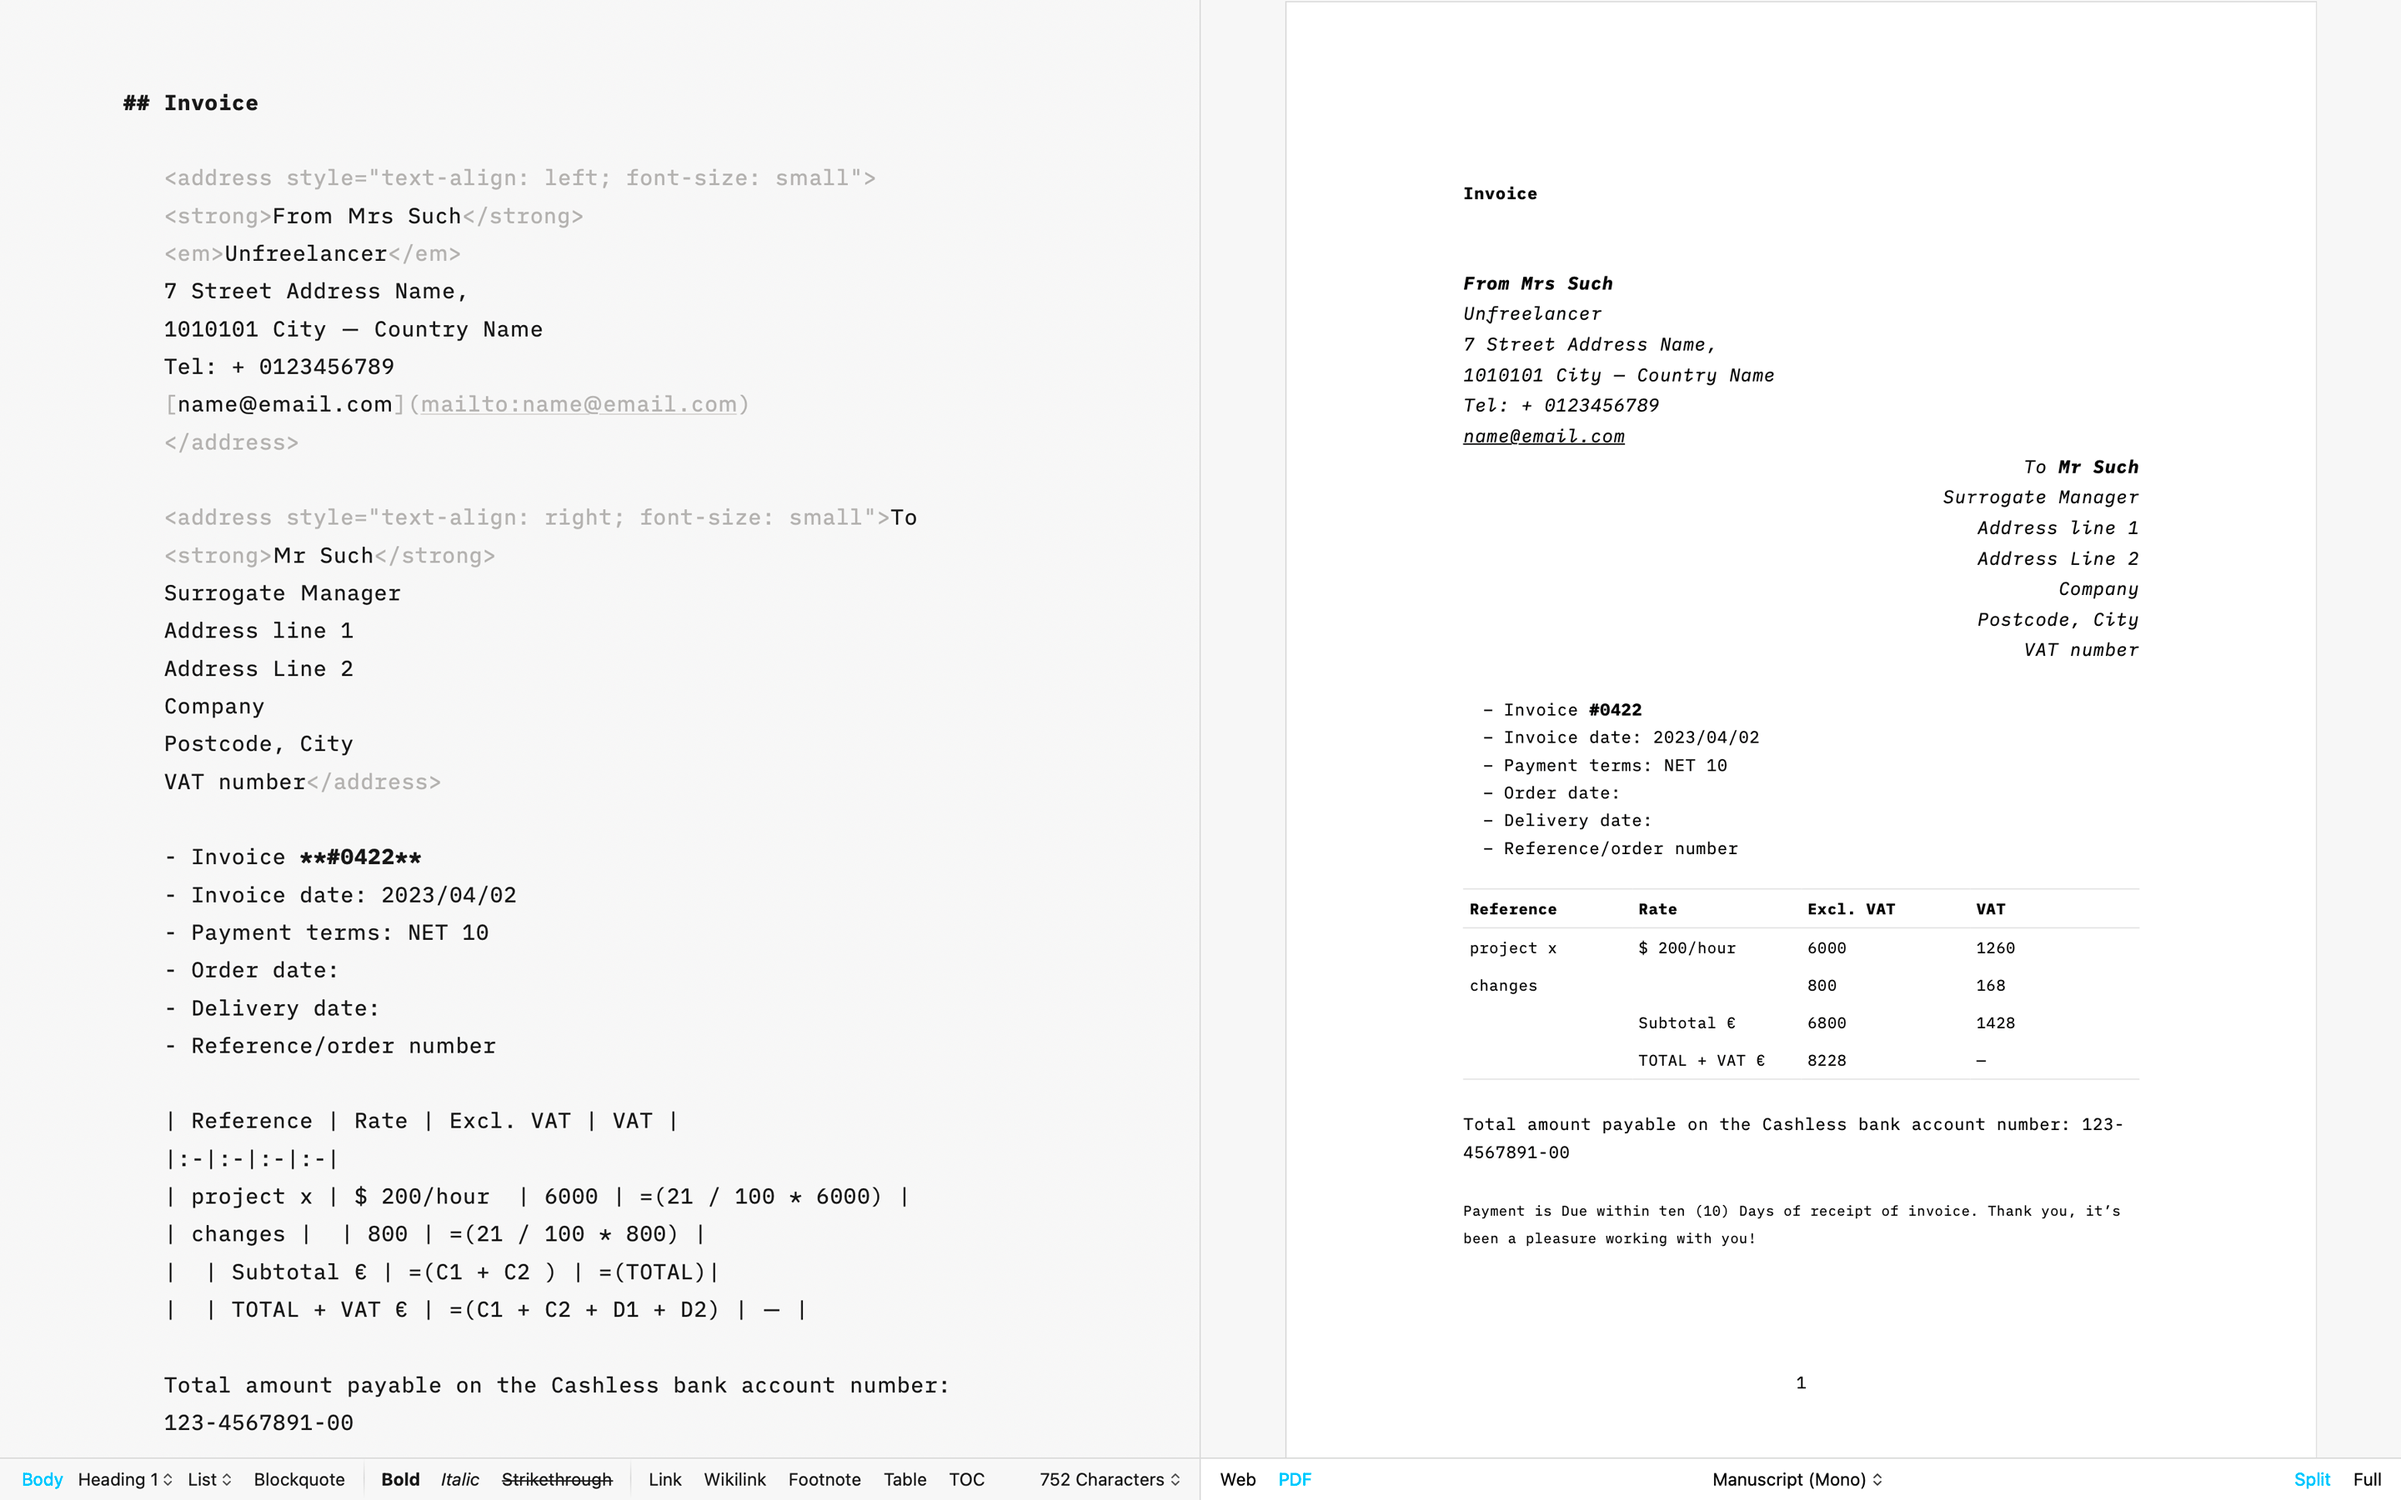
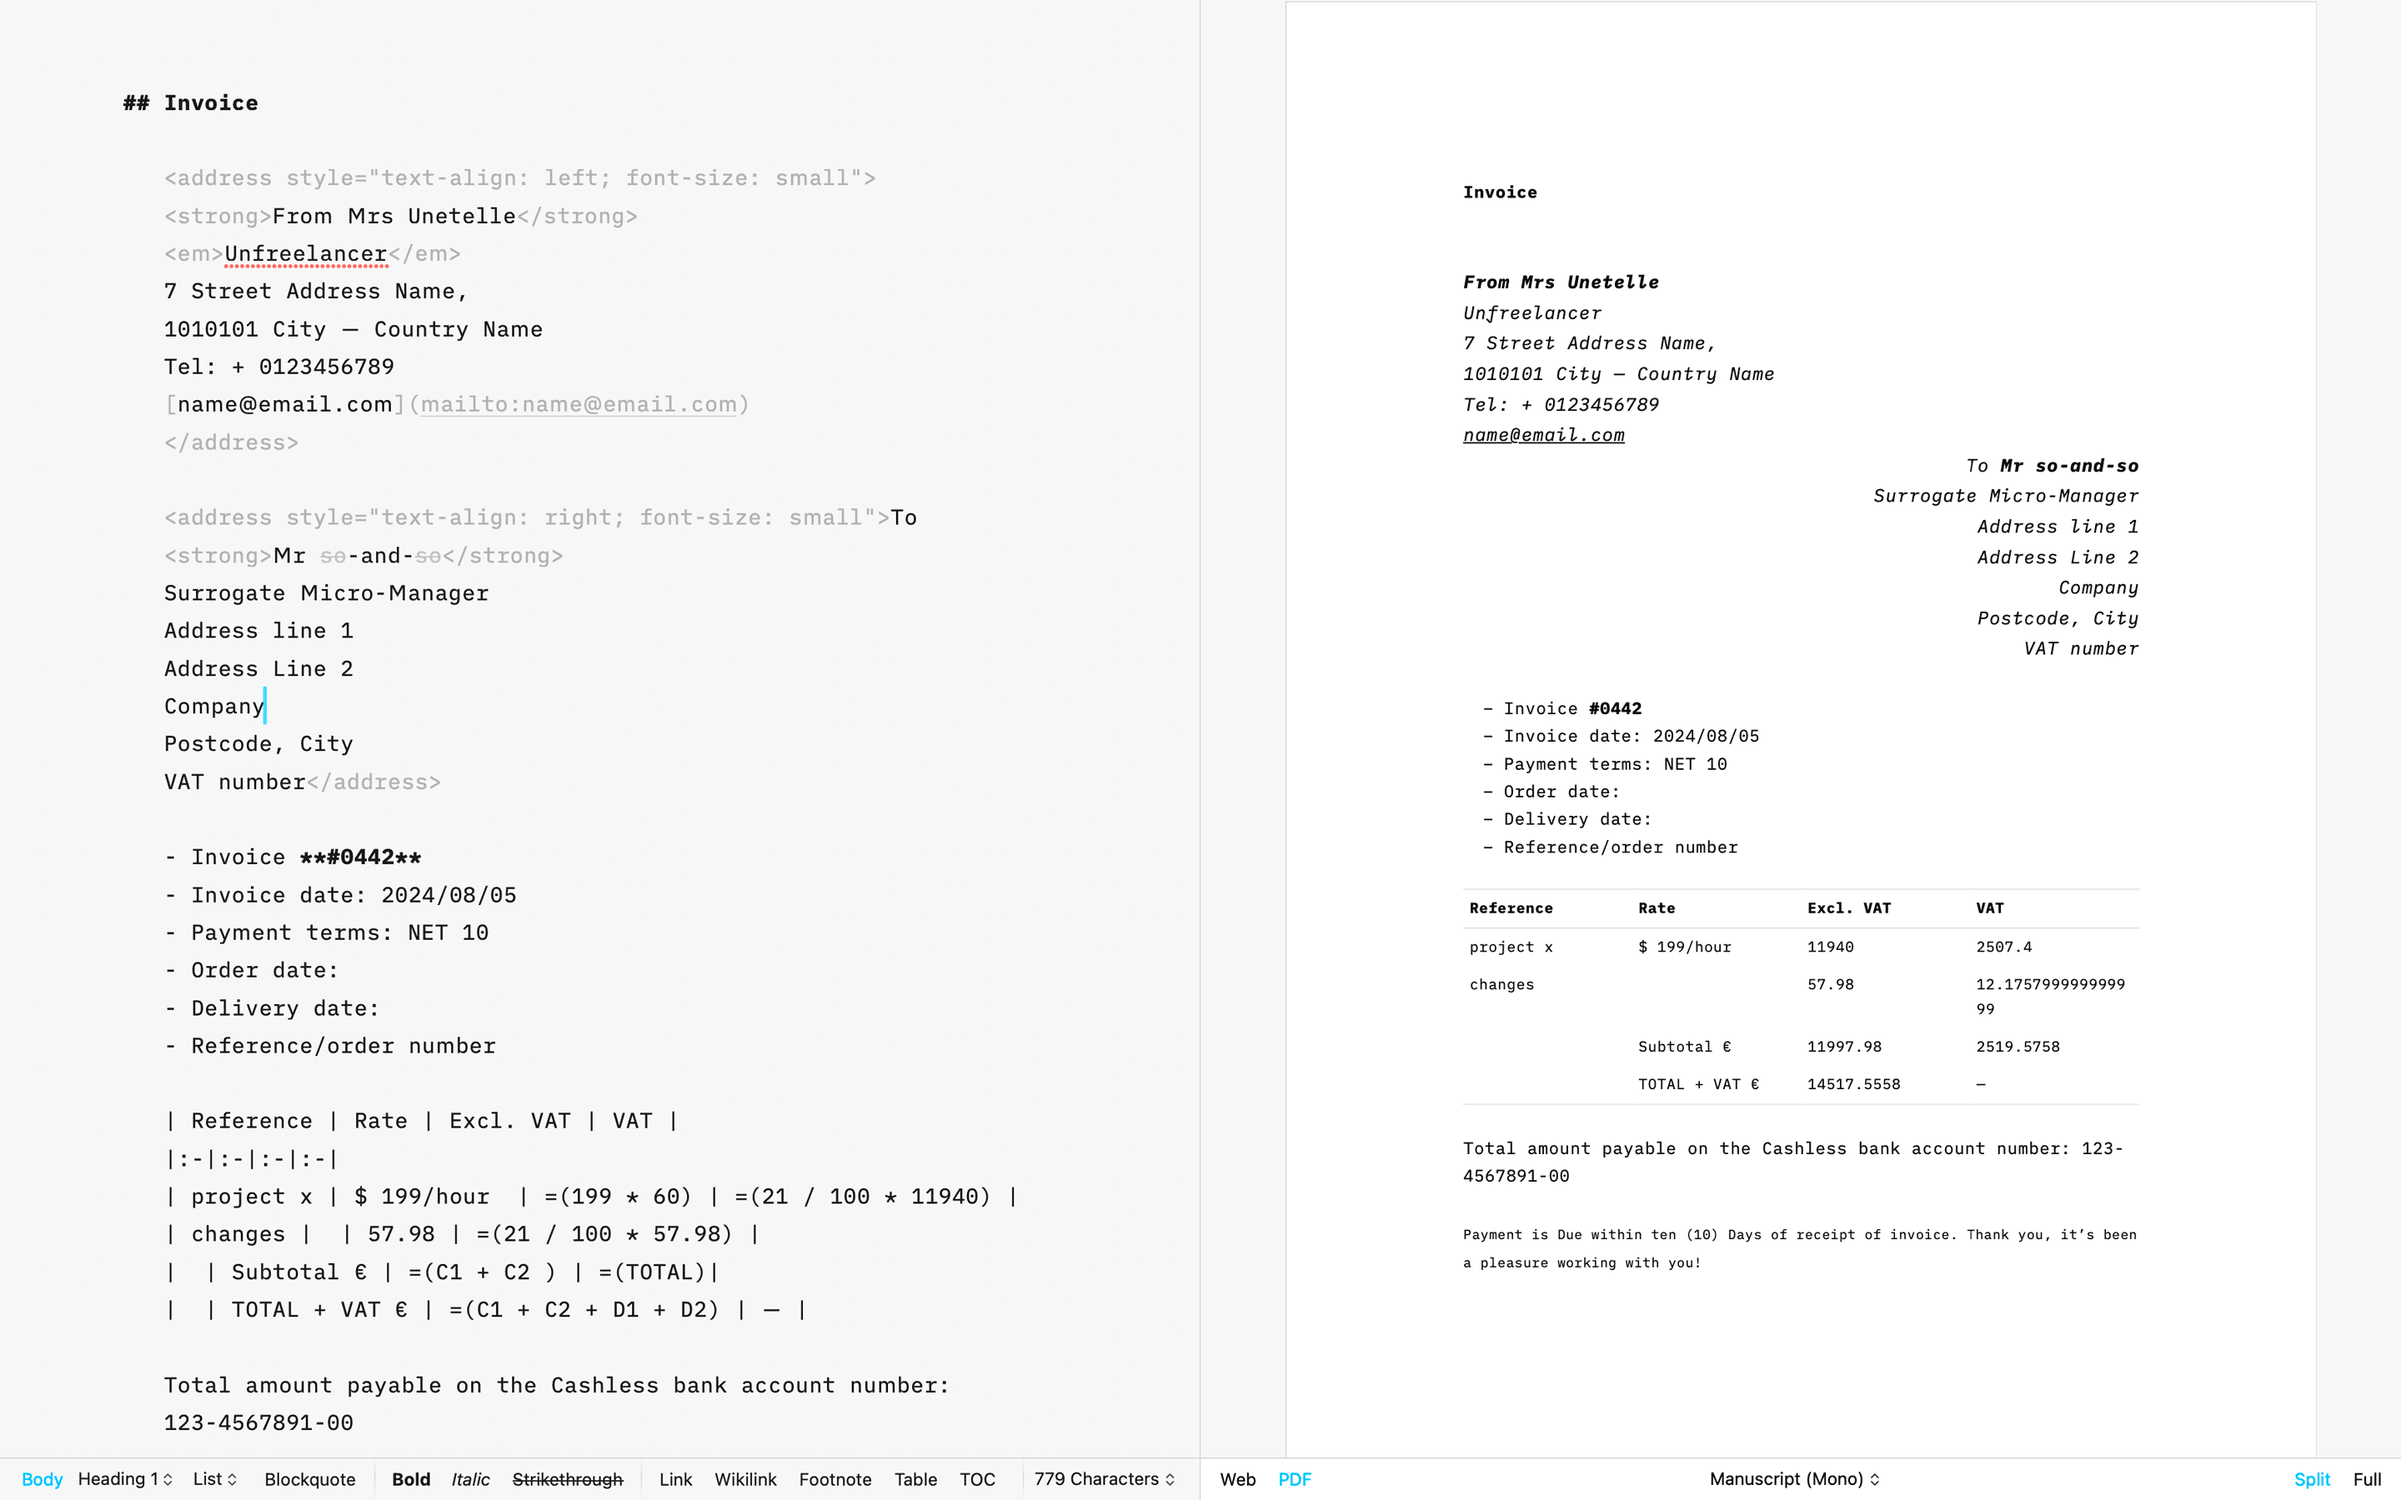
update basic invoice

diff --git a/README.md b/README.md
@@ -26,7 +26,7 @@ This is a basic scope of work template, useful for RFP purpose that you can styl
 
 ### [Basic Invoice](https://github.com/YJPL/iA-Writer-Templates/blob/master/Basic_Invoice.txt)
 
-*Note that at this moment iAWriter doesn't let you write decimals*
+*You can actually use this since iAWriter does let you write decimals 🙂*
 
 <figure>
 <a href="https://github.com/YJPL/iA-Writer-Templates/blob/master/Basic_Invoice.txt"><img src="https://raw.githubusercontent.com/YJPL/iA-Writer-Templates/master/Preview/iAWriter_Basic_Invoice_preview.png"/></a>
